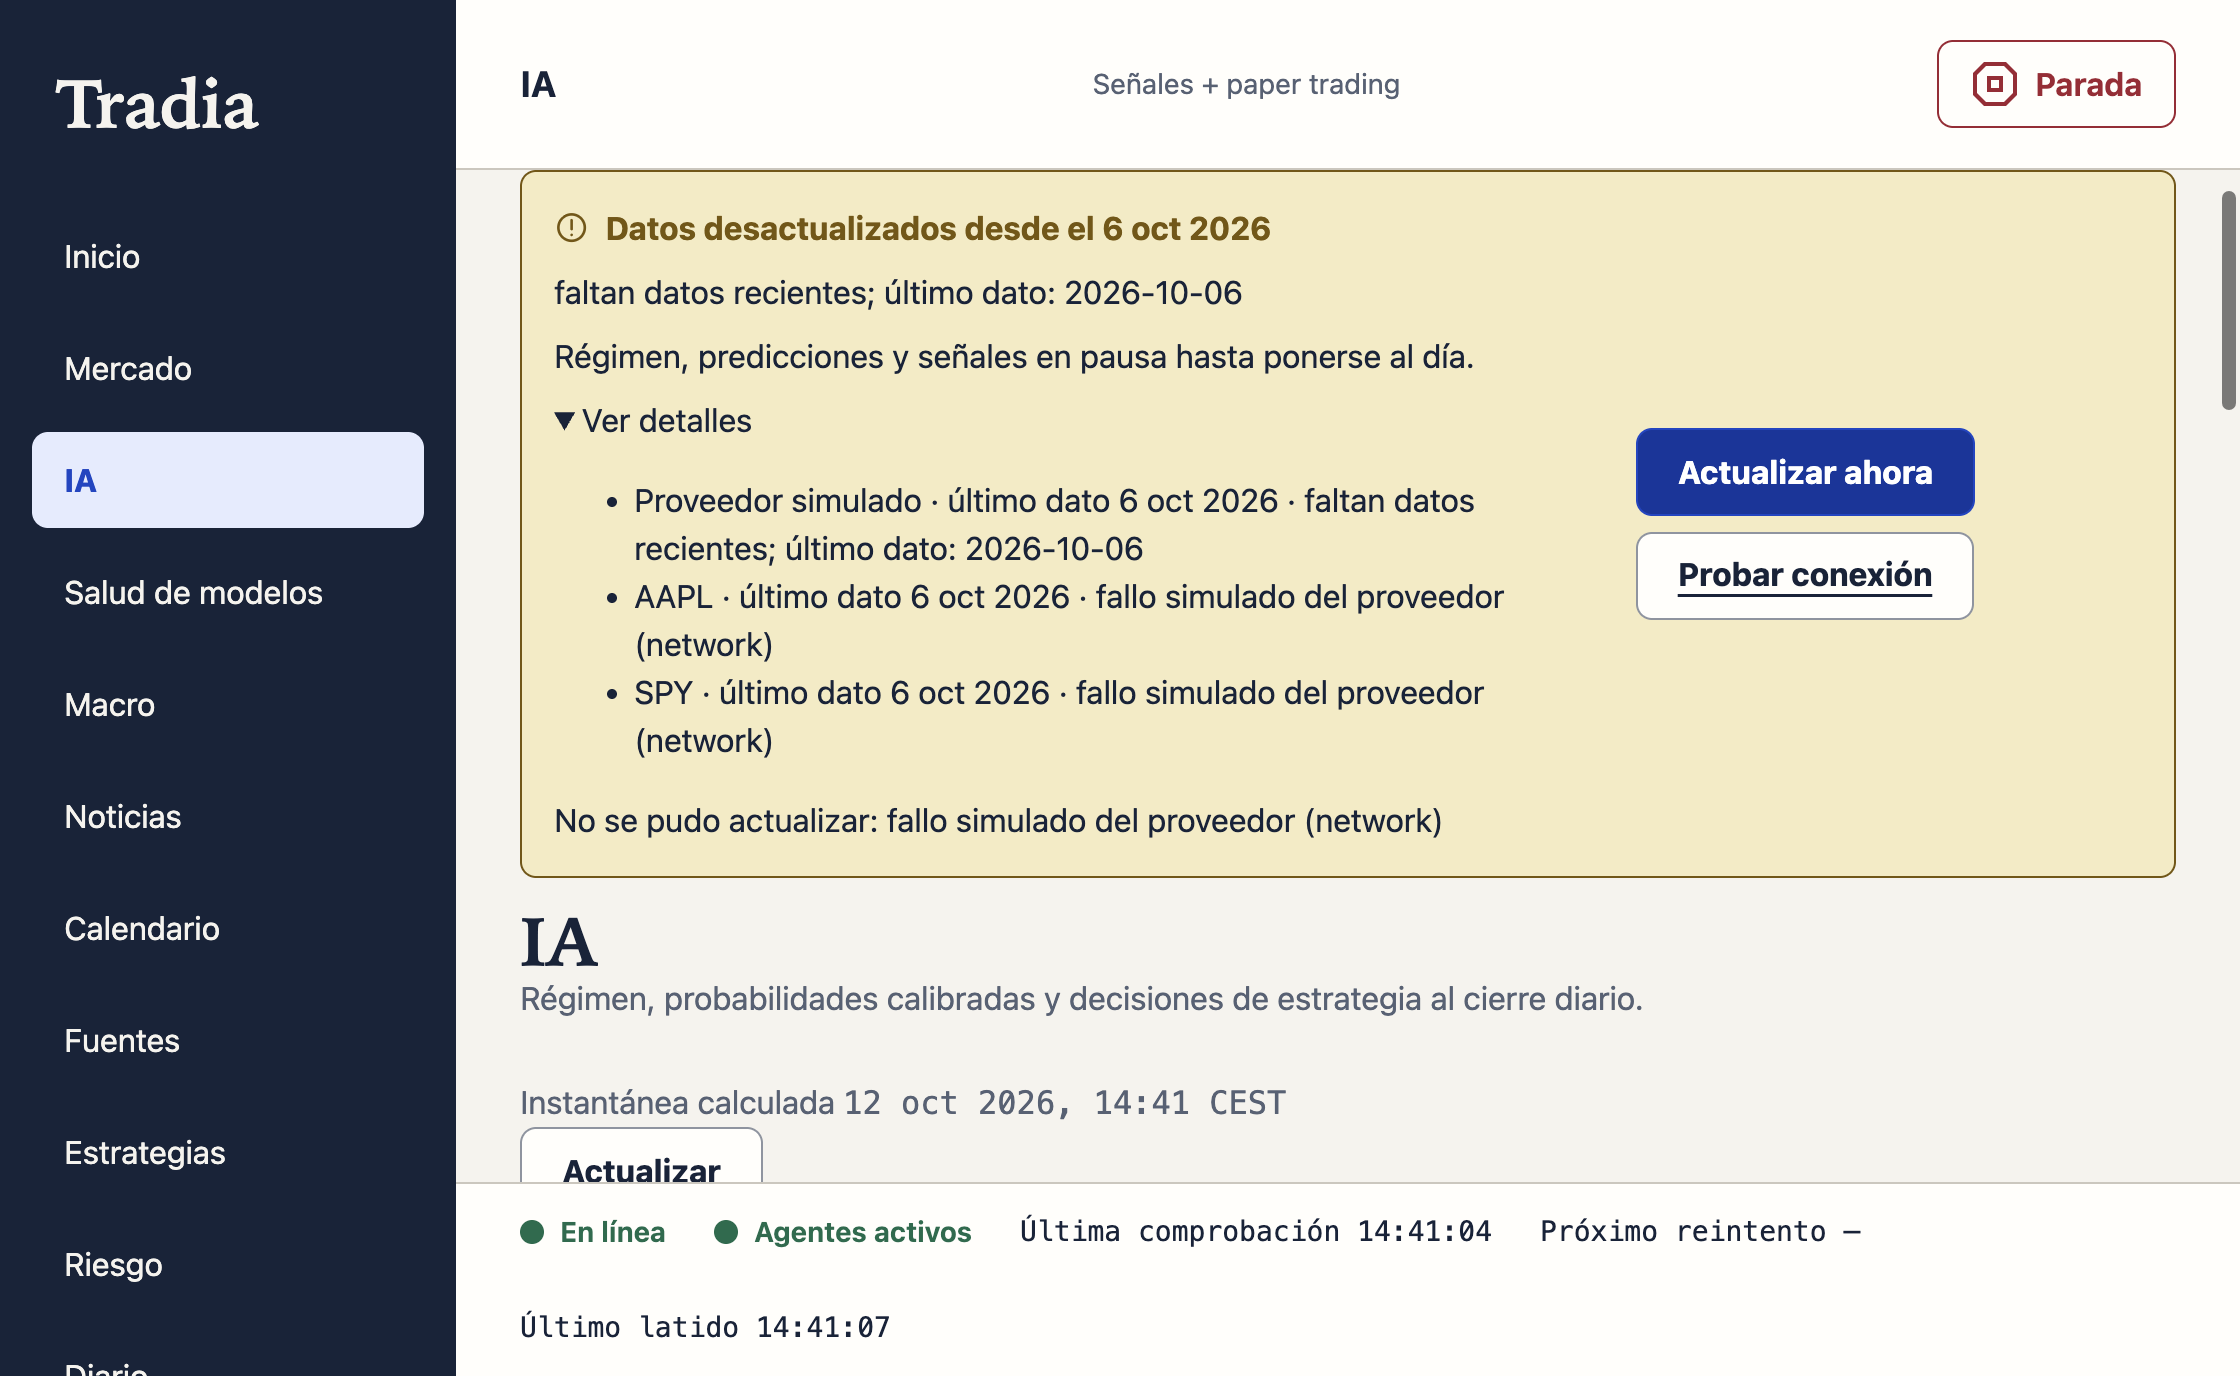
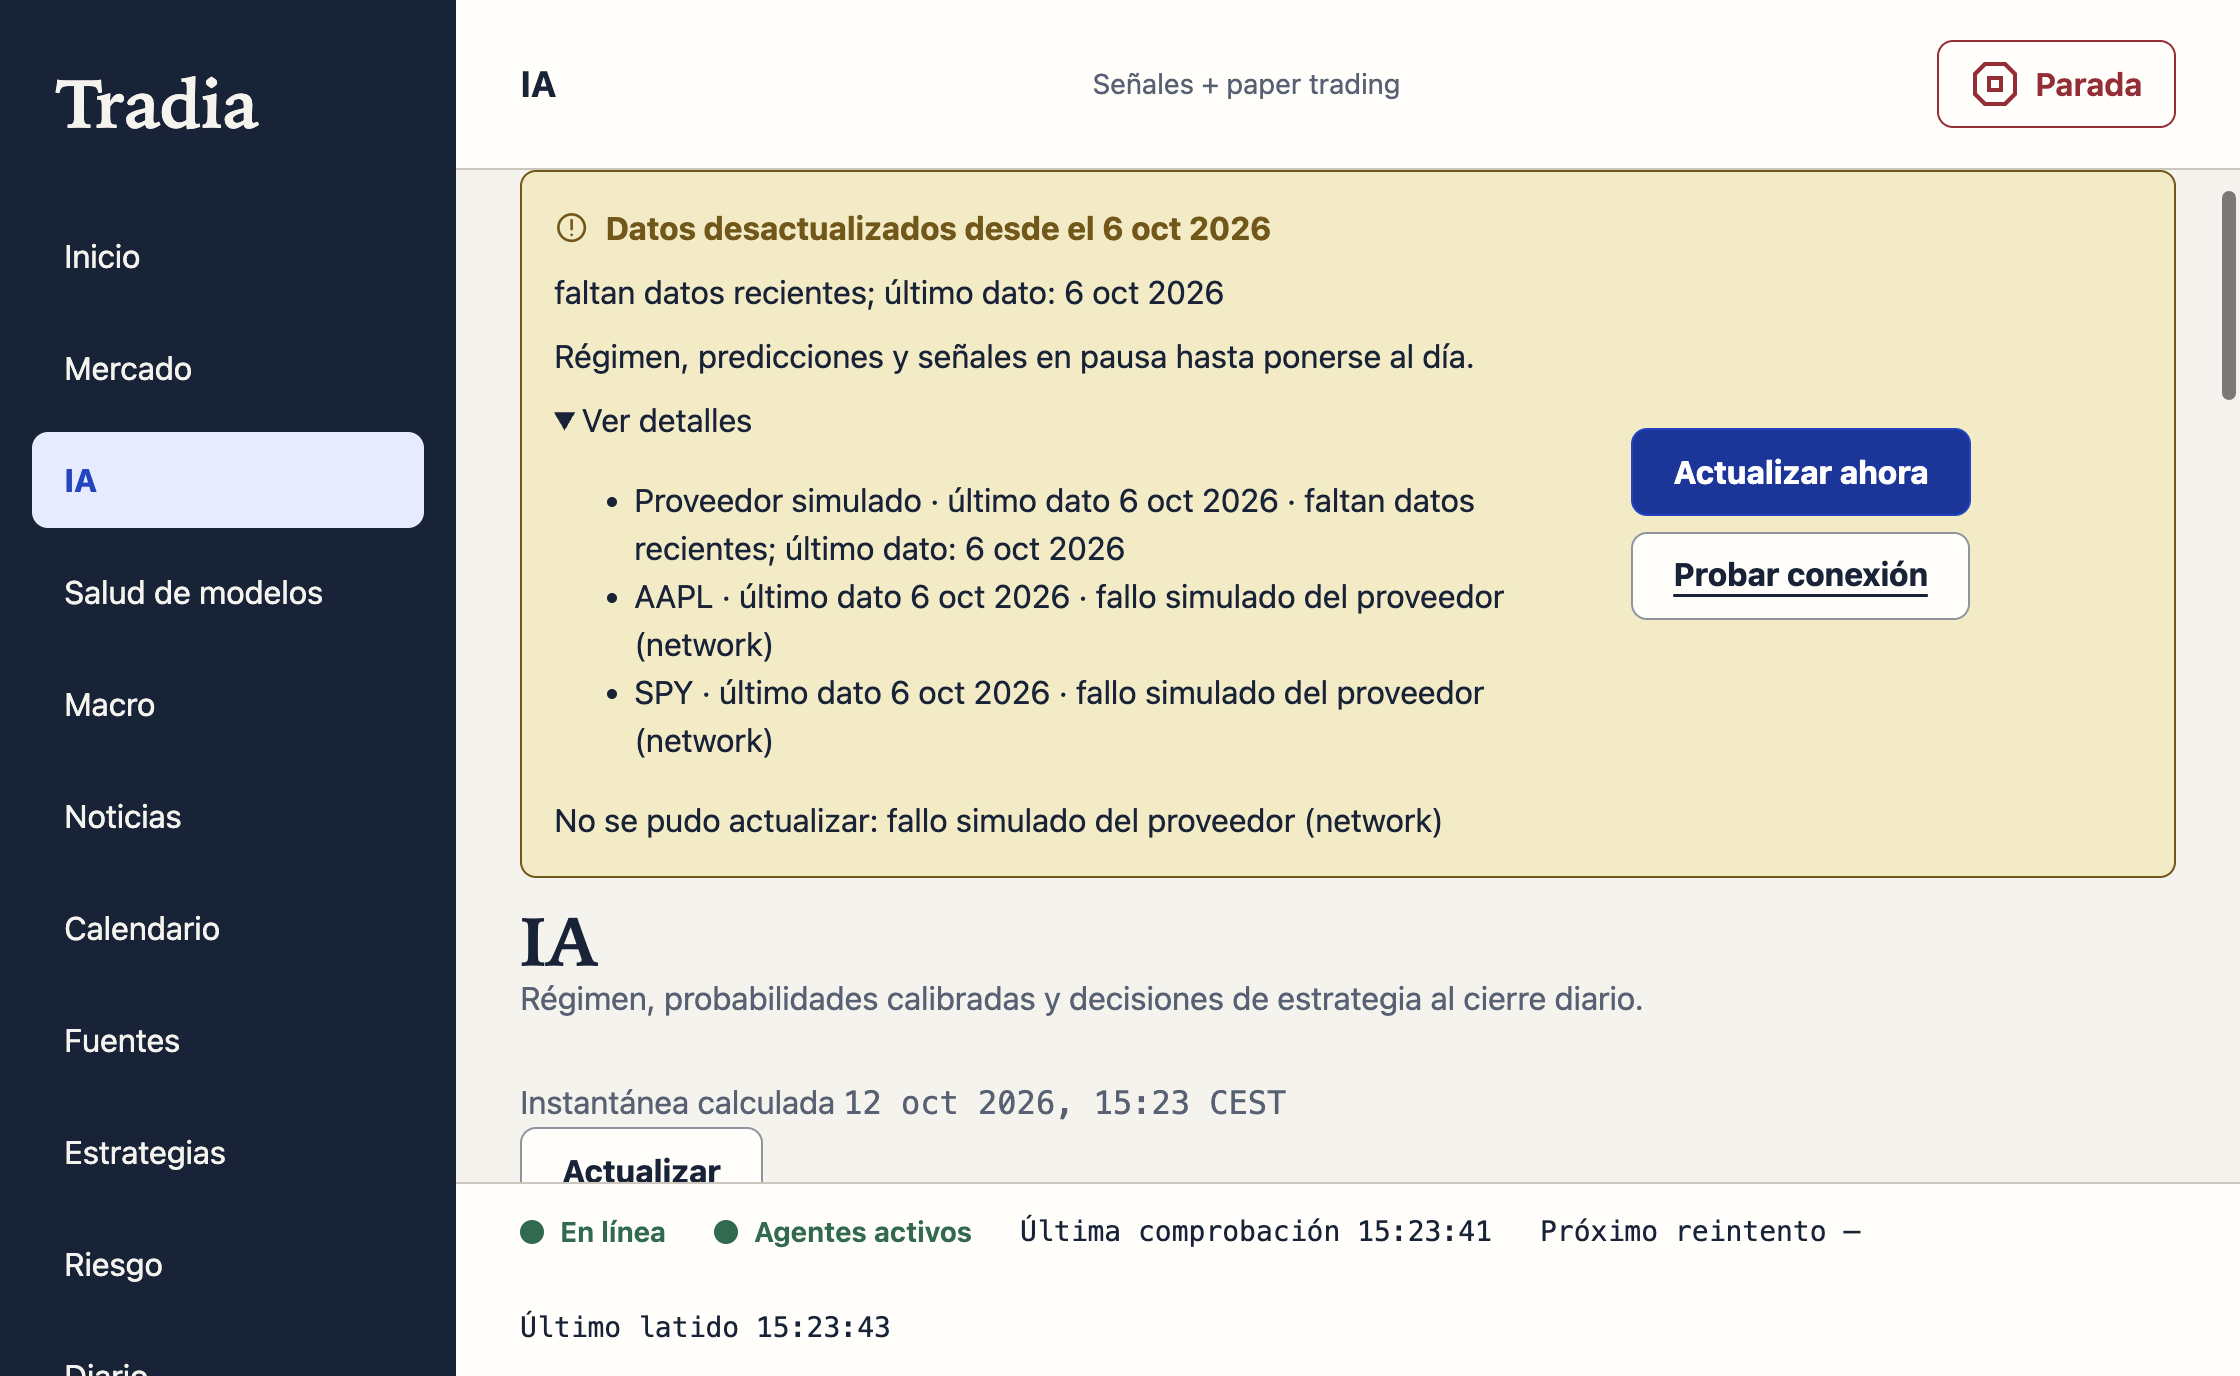
Motivos de frescura de datos sin fechas ISO
Orquesta · Backend · Devin · SWE (Cognition)

diff --git a/src/main/market/health.test.ts b/src/main/market/health.test.ts
@@ -1,6 +1,7 @@
 import Database from 'better-sqlite3';
 import { beforeEach, describe, expect, it, vi } from 'vitest';
 
+import { sessionDateLabel } from '../../shared/dates';
 import {
   dataStatusKey,
   IPC_CHANNELS,
@@ -174,7 +175,10 @@ describe('vigilancia de tickers', () => {
 
     const s = status(dataStatusKey.ticker('AAPL'))!;
     expect(s).toMatchObject({ state: 'desactualizado' });
-    expect(s.reason).toContain(LAST_SESSION);
+    expect(s.reason).toBe(
+      `falta la vela del ${sessionDateLabel(LAST_SESSION)}; ` +
+        `último dato: ${sessionDateLabel(PREV_SESSION)}`,
+    );
     expect(notifications).toEqual([
       expect.objectContaining({ level: 'alerta', title: expect.stringContaining('AAPL') }),
     ]);
@@ -191,7 +195,7 @@ describe('vigilancia de tickers', () => {
 
     const s = status(dataStatusKey.ticker('AAPL'))!;
     expect(s.state).toBe('desactualizado');
-    expect(s.reason).toContain('2026-10-07');
+    expect(s.reason).toContain(`falta la vela del ${sessionDateLabel('2026-10-07')}`);
     expect(s.reason).toContain('+2 más');
   });
 
@@ -305,7 +309,7 @@ describe('vigilancia de tickers', () => {
 
     const s = status(dataStatusKey.ticker('AAPL'))!;
     expect(s.state).toBe('desactualizado');
-    expect(s.reason).toContain('falta la vela del 2026-10-12');
+    expect(s.reason).toContain(`falta la vela del ${sessionDateLabel('2026-10-12')}`);
     expect(s.reason).toContain('+2 más');
     expect(notifications.map((n) => n.level)).toEqual(['alerta']);
   });
@@ -330,7 +334,7 @@ describe('frescura por proveedor', () => {
 
     const s = status(dataStatusKey.provider('tiingo'))!;
     expect(s.state).toBe('desactualizado');
-    expect(s.reason).toContain(`último dato: ${PREV_SESSION}`);
+    expect(s.reason).toContain(`último dato: ${sessionDateLabel(PREV_SESSION)}`);
   });
 
   it('un proveedor macro con series atrasadas queda desactualizado igual', async () => {
@@ -350,7 +354,7 @@ describe('frescura por proveedor', () => {
 
     const s = status(dataStatusKey.provider('fred'))!;
     expect(s.state).toBe('desactualizado');
-    expect(s.reason).toContain('2026-10-05');
+    expect(s.reason).toContain(sessionDateLabel('2026-10-05'));
   });
 
   it('con los hijos al día un desactualizado sin fallos vuelve a fiable', async () => {
@@ -424,7 +428,7 @@ describe('vigilancia de series macro', () => {
 
     const s = status(dataStatusKey.macro('DGS10'))!;
     expect(s.state).toBe('desactualizado');
-    expect(s.reason).toContain('2026-10-05');
+    expect(s.reason).toContain(sessionDateLabel('2026-10-05'));
     expect(notifications).toEqual([expect.objectContaining({ level: 'alerta' })]);
   });
 
@@ -493,7 +497,11 @@ describe('vigilancia de series macro', () => {
 
 describe('notificaciones al observar cambios', () => {
   const stale = (key: string): DataStatusEntry =>
-    entry({ key, state: 'desactualizado', reason: 'falta la vela del 2026-10-07' });
+    entry({
+      key,
+      state: 'desactualizado',
+      reason: `falta la vela del ${sessionDateLabel('2026-10-07')}`,
+    });
 
   it('empeorar el estado avisa: alerta para desactualizado, crítica para no-fiable', async () => {
     const key = dataStatusKey.provider('tiingo');
@@ -692,7 +700,7 @@ describe('resumen de frescura', () => {
       key: dataStatusKey.ticker('AAPL'),
       state: 'desactualizado',
       consecutiveFailures: 1,
-      reason: `falta la vela del ${LAST_SESSION}`,
+      reason: `falta la vela del ${sessionDateLabel(LAST_SESSION)}`,
     });
     repo.setDataStatus({
       key: dataStatusKey.ticker('MSFT'),
@@ -869,6 +877,41 @@ describe('resumen de frescura', () => {
     const summary = service.freshness();
     expect(summary.state).toBe('stale');
     expect(summary.progress).toBeNull();
+  });
+
+  it('ningún motivo escribe una fecha AAAA-MM-DD: el texto va en el formato local de la franja', async () => {
+    repo.addWatchlistTicker('AAPL');
+    seedBars('AAPL', PREV_SESSION);
+    seedMacro('DGS10', 'daily', '2026-10-05');
+    repo.setDataStatus({
+      key: dataStatusKey.provider('tiingo'),
+      state: 'fiable',
+      lastOkAt: new Date(nowMs).toISOString(),
+      consecutiveFailures: 0,
+    });
+
+    service.evaluate();
+    await flush();
+
+    // Los tres motivos «desactualizado» usan sessionDateLabel de
+    // src/shared/dates, el mismo texto que «Datos desactualizados desde …».
+    expect(status(dataStatusKey.ticker('AAPL'))!.reason).toBe(
+      `falta la vela del ${sessionDateLabel(LAST_SESSION)}; ` +
+        `último dato: ${sessionDateLabel(PREV_SESSION)}`,
+    );
+    expect(status(dataStatusKey.macro('DGS10'))!.reason).toBe(
+      `falta la observación esperada; último dato: ${sessionDateLabel('2026-10-05')}`,
+    );
+    expect(status(dataStatusKey.provider('tiingo'))!.reason).toBe(
+      `faltan datos recientes; último dato: ${sessionDateLabel(PREV_SESSION)}`,
+    );
+
+    const summary = service.freshness();
+    const reasons = [...service.list(), ...summary.items].map((entry) => entry.reason ?? '');
+    expect(reasons.some((reason) => reason.length > 0)).toBe(true);
+    for (const reason of reasons) {
+      expect(reason).not.toMatch(/\d{4}-\d{2}-\d{2}/);
+    }
   });
 });
 

diff --git a/src/main/market/health.ts b/src/main/market/health.ts
@@ -41,6 +41,7 @@
  */
 import { app, ipcMain } from 'electron';
 
+import { sessionDateLabel } from '../../shared/dates';
 import {
   dataStatusKey,
   IPC_CHANNELS,
@@ -328,7 +329,9 @@ export function createDataHealthService(deps: DataHealthDeps): DataHealthService
       const extra = missing.length > 1 ? ` (+${missing.length - 1} más)` : '';
       return {
         state: 'desactualizado',
-        reason: `falta la vela del ${firstMissing.date}${extra}; último dato: ${lastStored ?? 'sin datos'}`,
+        reason:
+          `falta la vela del ${sessionDateLabel(firstMissing.date)}${extra}; ` +
+          `último dato: ${sessionDateLabel(lastStored)}`,
       };
     }
     // Dentro del plazo de 12 h: el último dato verificado sigue sirviendo.
@@ -406,7 +409,7 @@ export function createDataHealthService(deps: DataHealthDeps): DataHealthService
     if (now() >= deadline) {
       return {
         state: 'desactualizado',
-        reason: `falta la observación esperada; último dato: ${lastObs ?? 'sin datos'}`,
+        reason: `falta la observación esperada; último dato: ${sessionDateLabel(lastObs)}`,
       };
     }
     return { state: current?.state ?? 'fiable', reason: current?.reason ?? null };
@@ -474,7 +477,7 @@ export function createDataHealthService(deps: DataHealthDeps): DataHealthService
         reason:
           oldestBadDate === null
             ? 'el proveedor no tiene el dato esperado todavía'
-            : `faltan datos recientes; último dato: ${oldestBadDate}`,
+            : `faltan datos recientes; último dato: ${sessionDateLabel(oldestBadDate)}`,
       };
     }
     if (rawCurrent.state !== 'fiable' && (rawCurrent.consecutiveFailures ?? 0) === 0) {

diff --git a/src/renderer/src/components/ProviderBanner.test.tsx b/src/renderer/src/components/ProviderBanner.test.tsx
@@ -12,7 +12,7 @@ const staleTicker = {
   state: 'desactualizado' as const,
   lastOkAt: '2026-10-07T20:00:00Z',
   consecutiveFailures: 1,
-  reason: 'falta la vela del 2026-10-08 (+2 más); último dato: 2026-10-06',
+  reason: `falta la vela del ${sessionDateLabel('2026-10-08')} (+2 más); último dato: ${sessionDateLabel('2026-10-06')}`,
   updatedAt: '2026-10-08T20:00:00Z',
 };
 const staleFred = {
@@ -20,7 +20,7 @@ const staleFred = {
   state: 'desactualizado' as const,
   lastOkAt: '2026-10-07T20:00:00Z',
   consecutiveFailures: 2,
-  reason: 'falta la observación esperada; último dato: 2026-10-06',
+  reason: `falta la observación esperada; último dato: ${sessionDateLabel('2026-10-06')}`,
   updatedAt: '2026-10-08T20:00:00Z',
 };
 
@@ -40,7 +40,7 @@ it('muestra un único aviso «desactualizado desde …» y lo retira al recupera
 
   const banner = await screen.findByRole('region', { name: 'Estado de los datos' });
   expect(within(banner).getByText(/Datos desactualizados desde el/)).toBeTruthy();
-  expect(within(banner).getByText(/falta la vela del 2026-10-08/, { selector: 'p' })).toBeTruthy();
+  expect(within(banner).getByText(/falta la vela del 8 oct 2026/, { selector: 'p' })).toBeTruthy();
   expect(within(banner).getByText(/en pausa hasta ponerse al día/)).toBeTruthy();
 
   act(() =>

diff --git a/src/main/market/__integration__/data-flow.test.ts b/src/main/market/__integration__/data-flow.test.ts
@@ -16,6 +16,7 @@ import { createSignalsRepository } from '../../signals/repository';
 import type { RiskDecision } from '../../../shared/risk';
 import type { SignalIntent } from '../../../shared/risk';
 import { dataStatusKey, IPC_CHANNELS, type DataStatusEntry } from '../../../shared/ipc';
+import { sessionDateLabel } from '../../../shared/dates';
 
 const DEFAULT_NOW = Date.parse('2026-10-08T19:00:00.000Z');
 
@@ -234,8 +235,8 @@ describe('datos desactualizados y cálculos', () => {
 
     const status = repo.getDataStatus(dataStatusKey.ticker('AAPL'))!;
     expect(status.state).toBe('desactualizado');
-    expect(status.reason).toContain('falta la vela del 2026-09-28');
-    expect(status.reason).toContain('último dato: 2026-09-25');
+    expect(status.reason).toContain(`falta la vela del ${sessionDateLabel('2026-09-28')}`);
+    expect(status.reason).toContain(`último dato: ${sessionDateLabel('2026-09-25')}`);
     expect(health.freshness()).toMatchObject({ state: 'stale' });
 
     // Y el motor no emite señal con la vela vieja ni la marca como evaluada.
